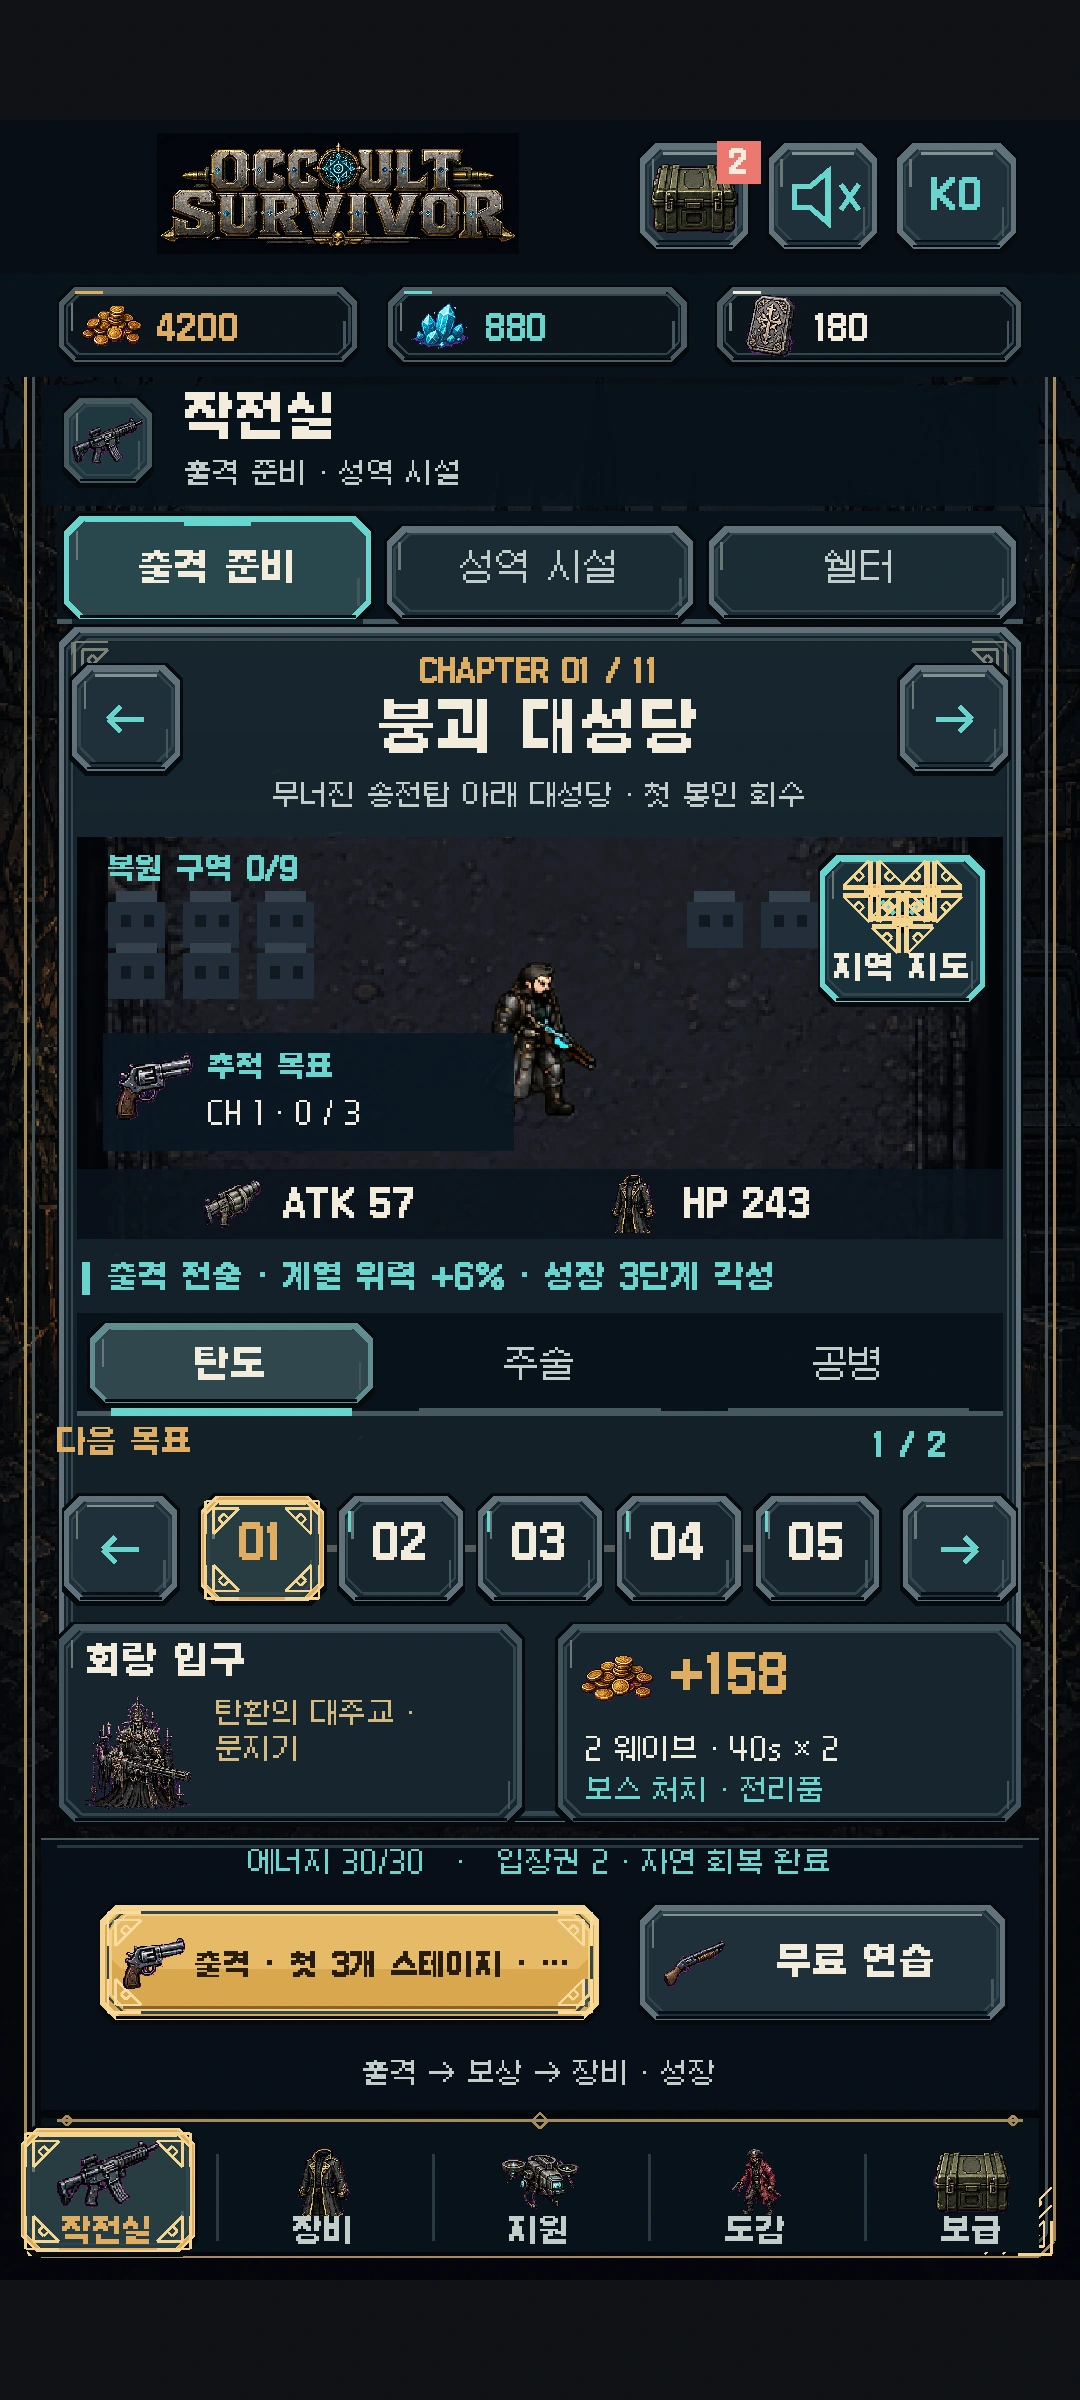
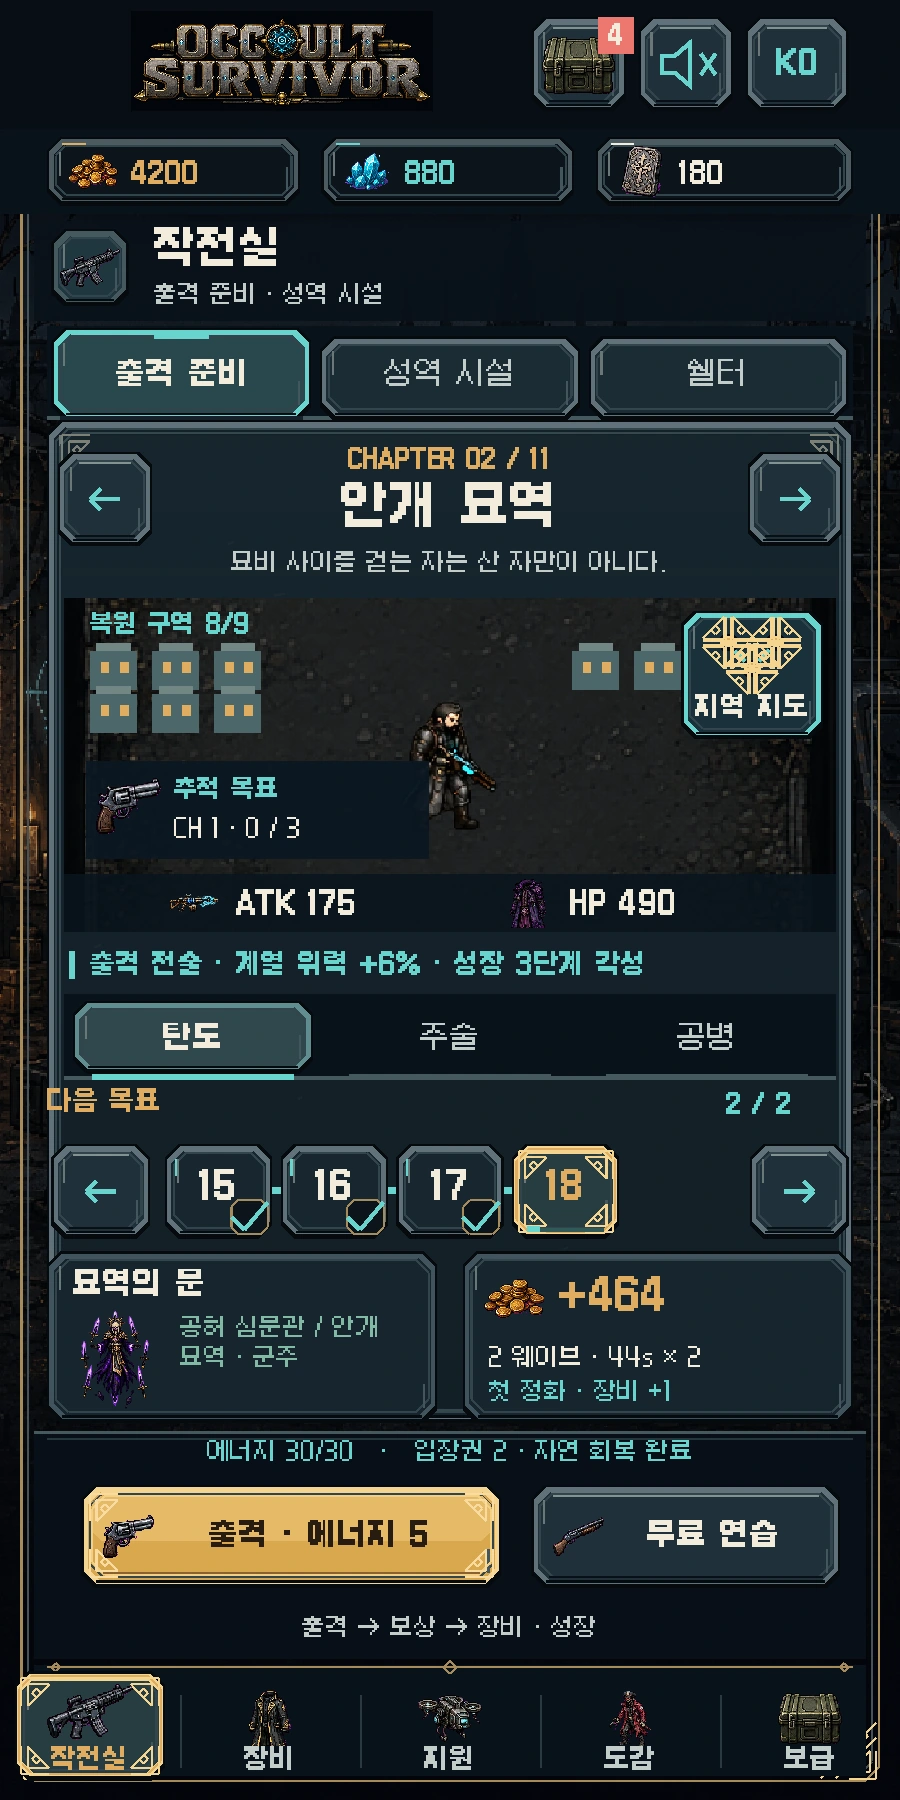
오컬트 서바이버 v0.49.16 스크린샷 갱신
최신 게임 화면 8장을 교체하고 드론 호위, 지역 이야기, 챕터 보급 화면 3장을 추가했습니다.

diff --git a/games/occult-survivor/MEDIA.md b/games/occult-survivor/MEDIA.md
@@ -1,5 +1,13 @@
 # 오컬트 서바이버 소개 자료
 
+## 2026-11-21 · v0.49.16
+
+- 타이틀·작전실·무기고·전투·성장 선택·보스·쉘터·보상 확인 8장을 교체했습니다. 지역 호위, 지역 이야기와 챕터 보급 3장을 추가했습니다. 총 21장입니다.
+- 새 화면은 v0.49.16 소스와 게임 에셋으로 Android 15 호스트에서 실행한 게임 뷰의 캡처입니다. 촬영용 장비를 사용했고 전투와 보상 확인은 게임의 입력·전투 로직으로 진행했습니다.
+- 900×1800 캡처의 화면 비율을 유지해 WebP로 변환했습니다. 각 이미지 캡션에서 촬영 버전을 확인할 수 있습니다.
+
+## 2026-10-27 · 이전 갱신 기록
+
 - 최근 갱신: 2026-10-27. 구형 갤러리 15장 중 14장을 최신 화면으로 교체하고, 지역 수집·심층 원정·무장 구성·선택 확인 4장을 추가했습니다. 최종 지역이 노출되는 결과 화면은 갤러리에서 제외했습니다. 현재 갤러리는 18장입니다.
 - 촬영 소스: 2026-10-27 작업 소스의 임시 Android debug 빌드(versionName 0.49.14, versionCode 82). 같은 버전 번호의 기존 배포 APK보다 최신 개발 소스입니다. 이번 작업으로 배포 APK나 Play Console을 변경하지 않았습니다.
 - 실제 Android API 36의 게임 Canvas 렌더러로 1080×2400 화면을 촬영했습니다. 일반 저장과 분리된 QA 환경에 촬영용 진행 상태를 구성했습니다. 웹 목업·호스트 렌더링·AI 합성 플레이 화면이 아닙니다.
